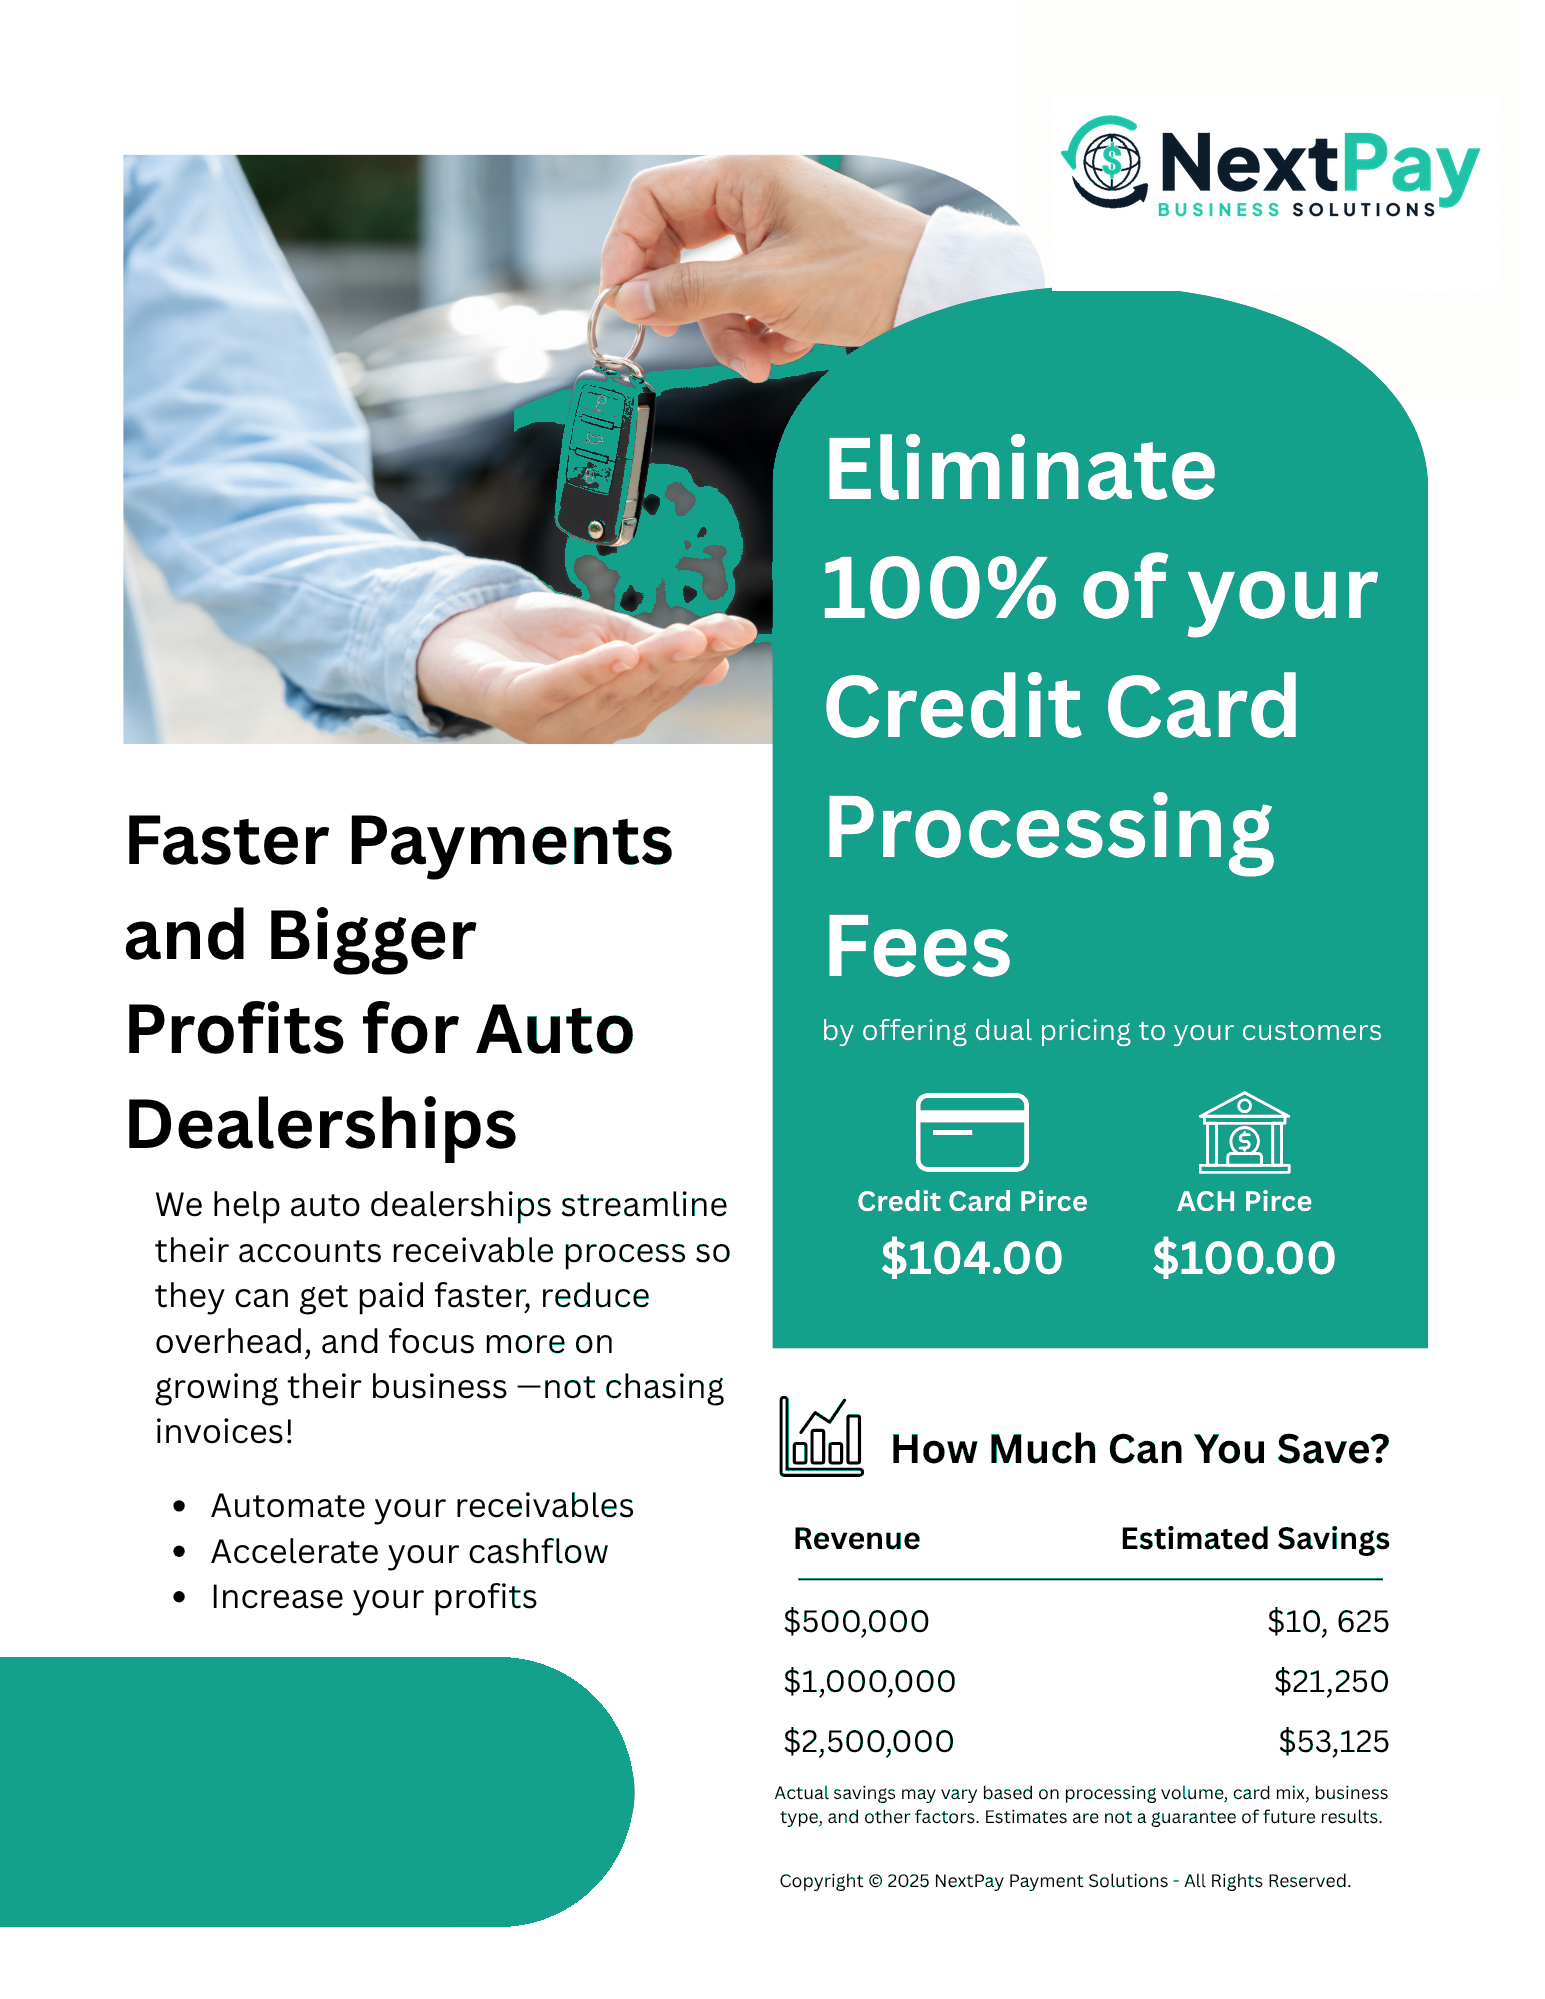
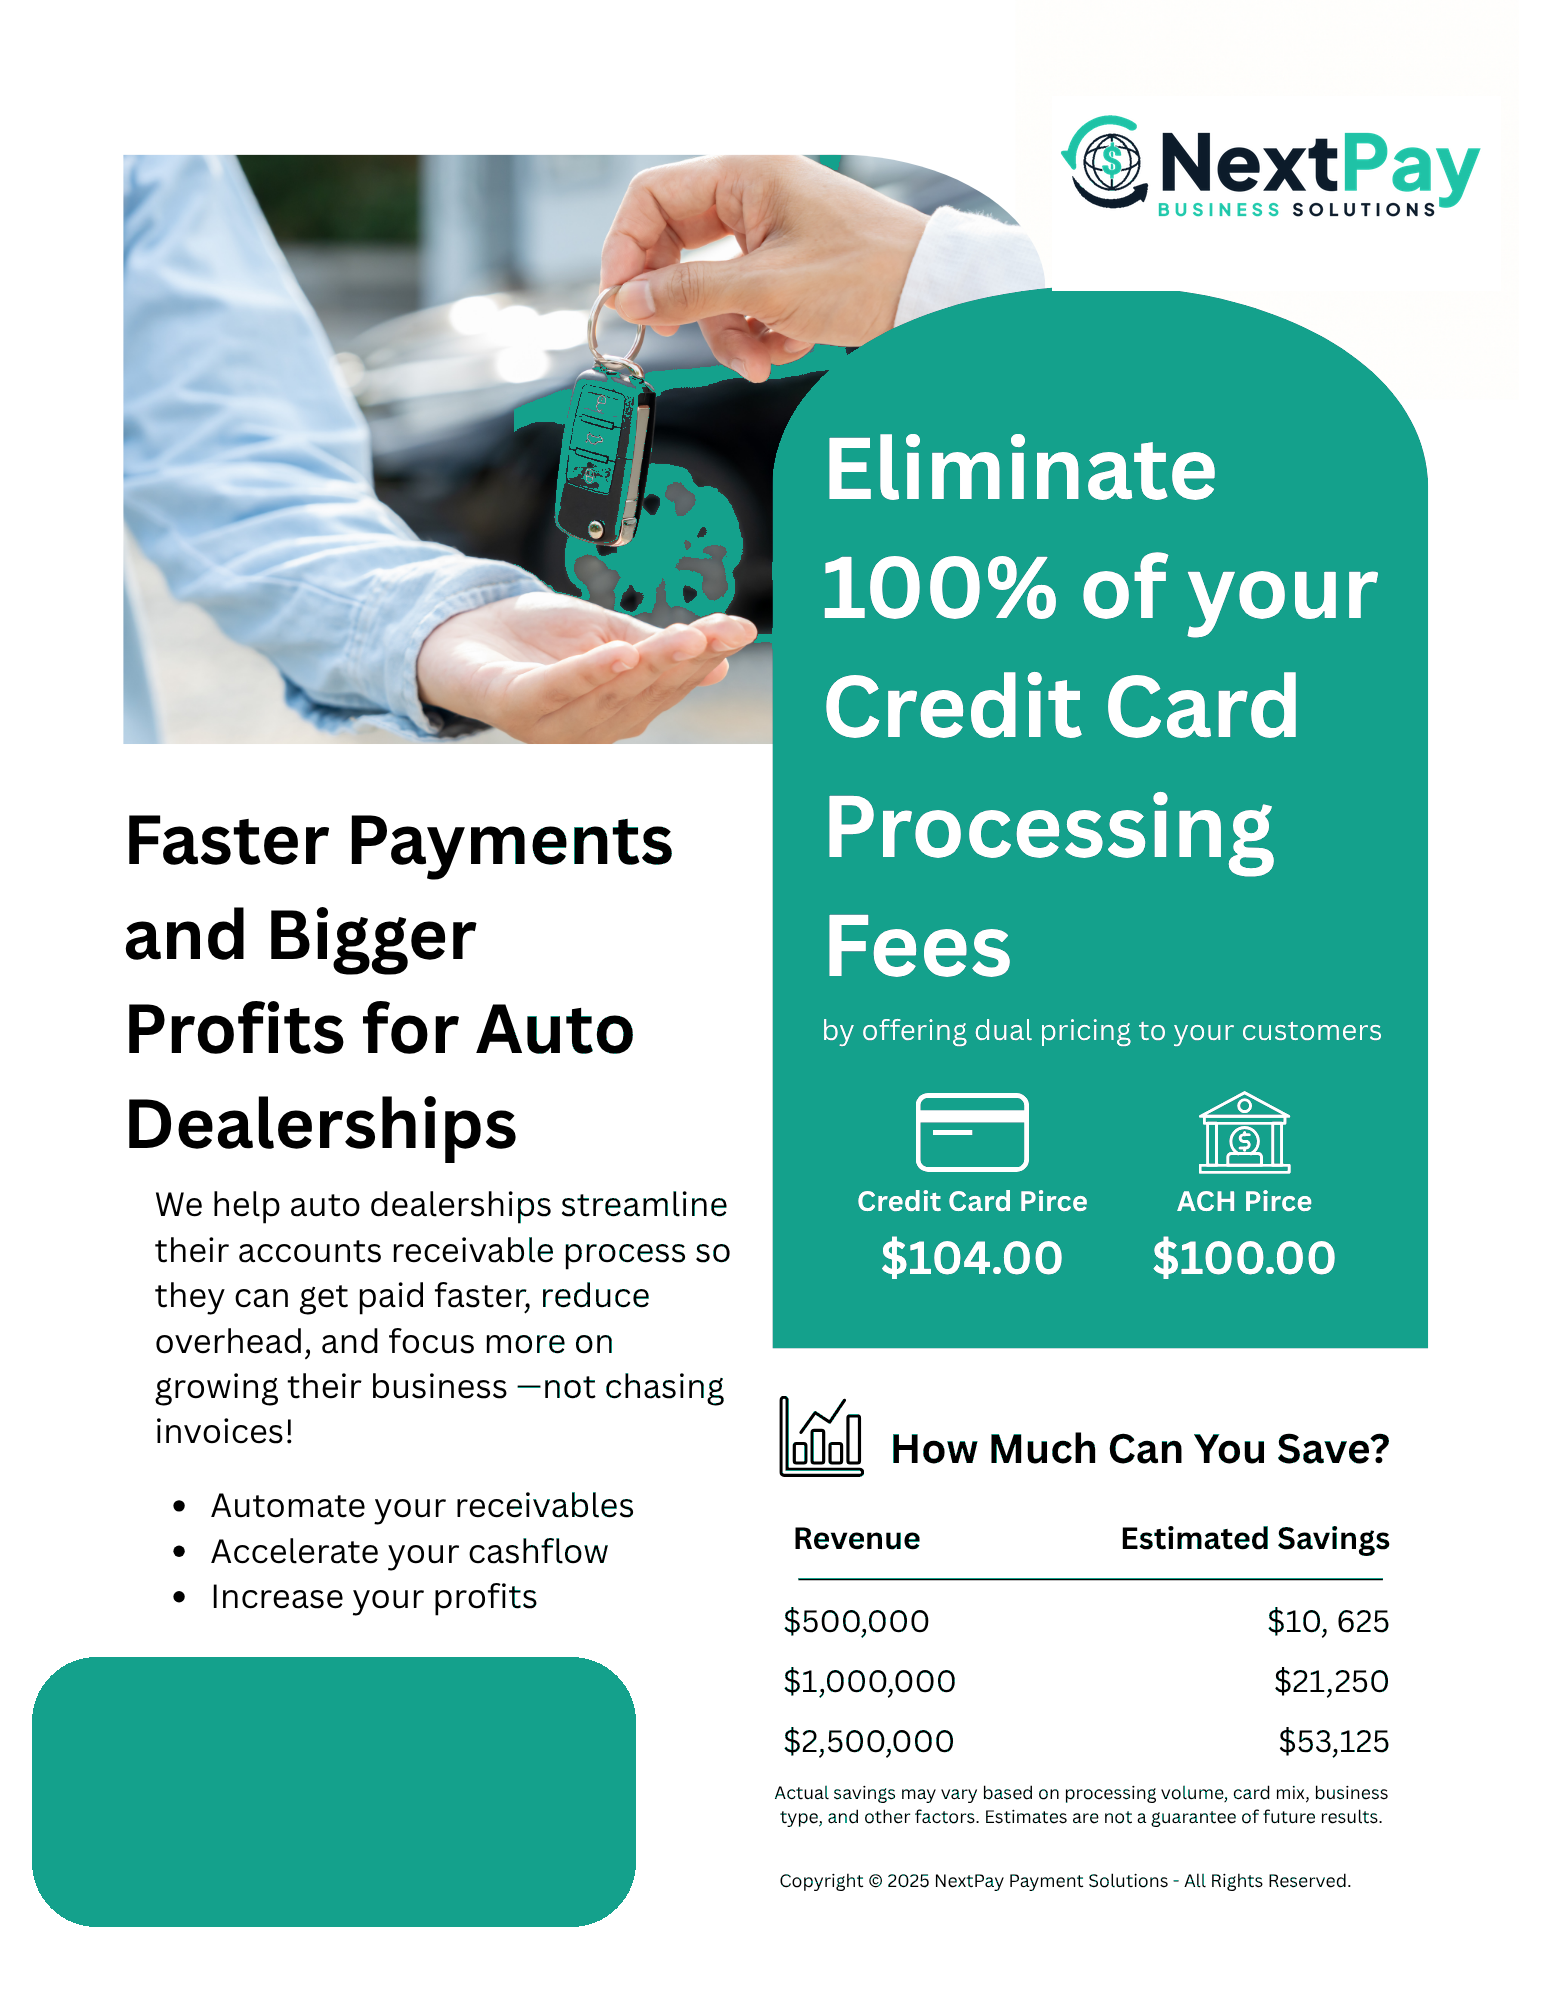
Fix teal bleed on industry flyers — contain the contact pill
The only edge bleed was the bottom-left teal contact pill running off the left
edge of every industry flyer (top/right/bottom were already clean). Redraw that
pill as a contained rounded rectangle with a left margin, baked into all 14 PNGs,
so the teal no longer bleeds in preview, print or download. The contact overlay
still sits on solid teal. Removed the old CSS safe-margin frame (no longer needed).

Claude-Session: https://claude.ai/code/session_01CDjTsx3yuVAoije6HYZZLy

Changed region(s): [[0.3417, 0.8064, 0.435, 0.9615], [0.0, 0.8064, 0.0621, 0.9615]]

diff --git a/Sales Hub - Flyers.html b/Sales Hub - Flyers.html
@@ -62,10 +62,8 @@
 .flyer.pc{width:7in;height:5in}
 .flyer .flyer-art{position:absolute;inset:0;width:100%;height:100%}
 .flyer img.flyer-art{object-fit:cover;display:block}
-/* the industry flyer PNGs are full-bleed (teal runs to the edge); frame the
-   image with a clean white safe-margin so it prints without the teal bleeding
-   off the page. Image flyers only — the built-in HTML flyers manage their own. */
-.flyer.has-img::after{content:'';position:absolute;inset:0;border:.16in solid #fff;pointer-events:none;z-index:2}
+/* (industry flyer PNGs now carry a clean baked-in white margin — the contact
+   pill no longer bleeds off the left edge, so no CSS frame is needed.) */
 
 /* injected contact block */
 .contact-block{position:absolute;box-sizing:border-box}
